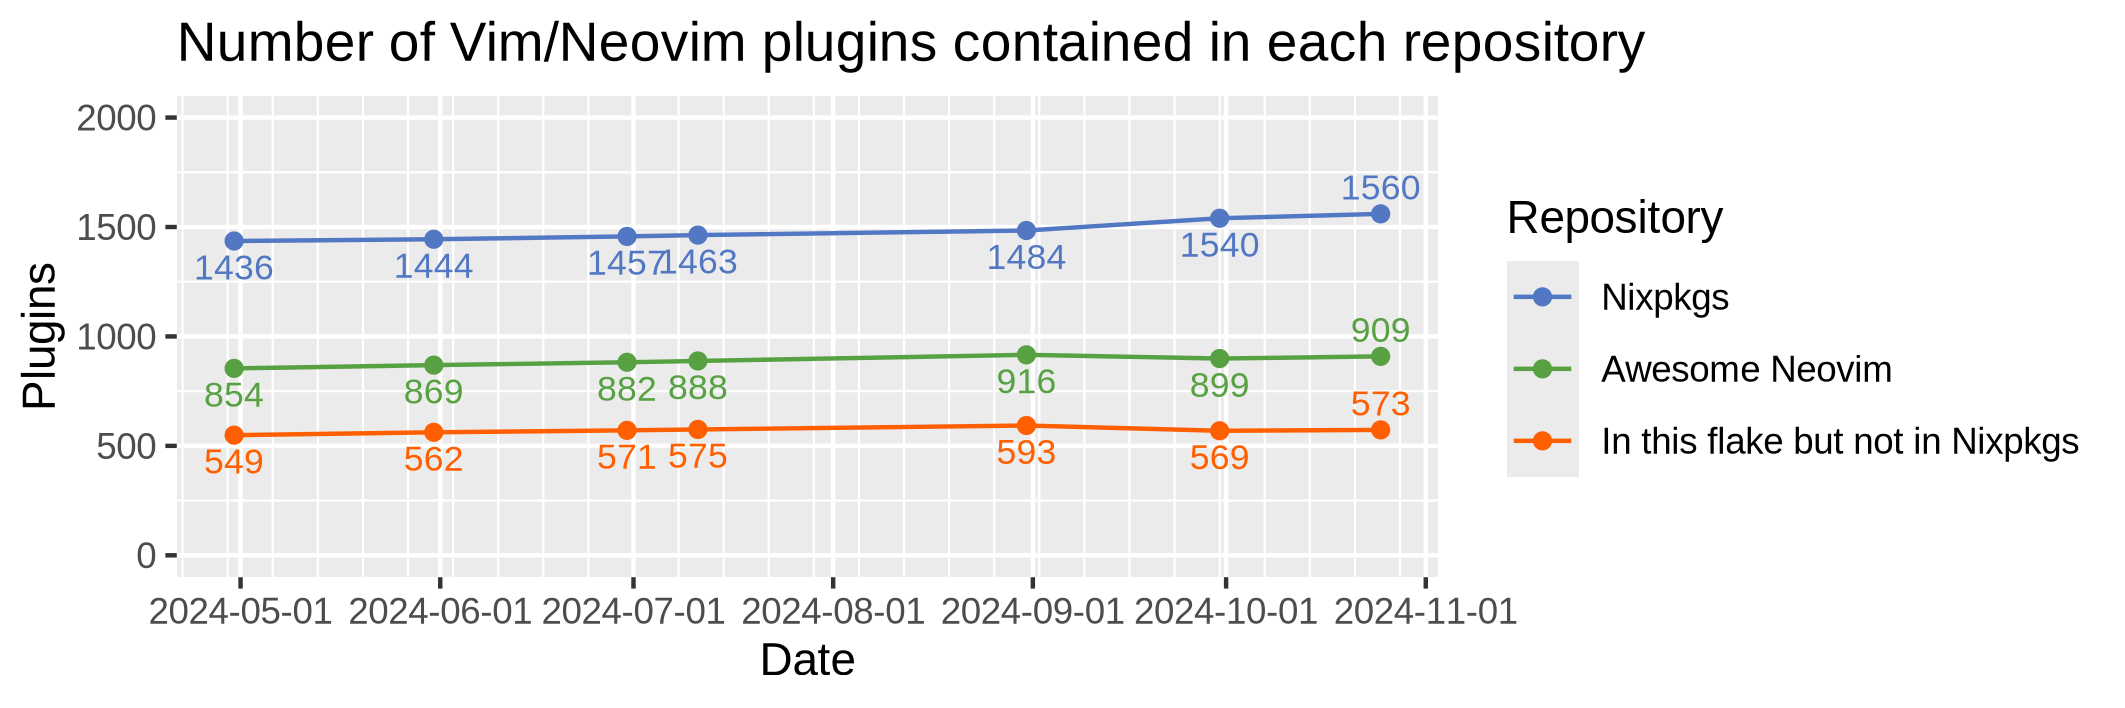
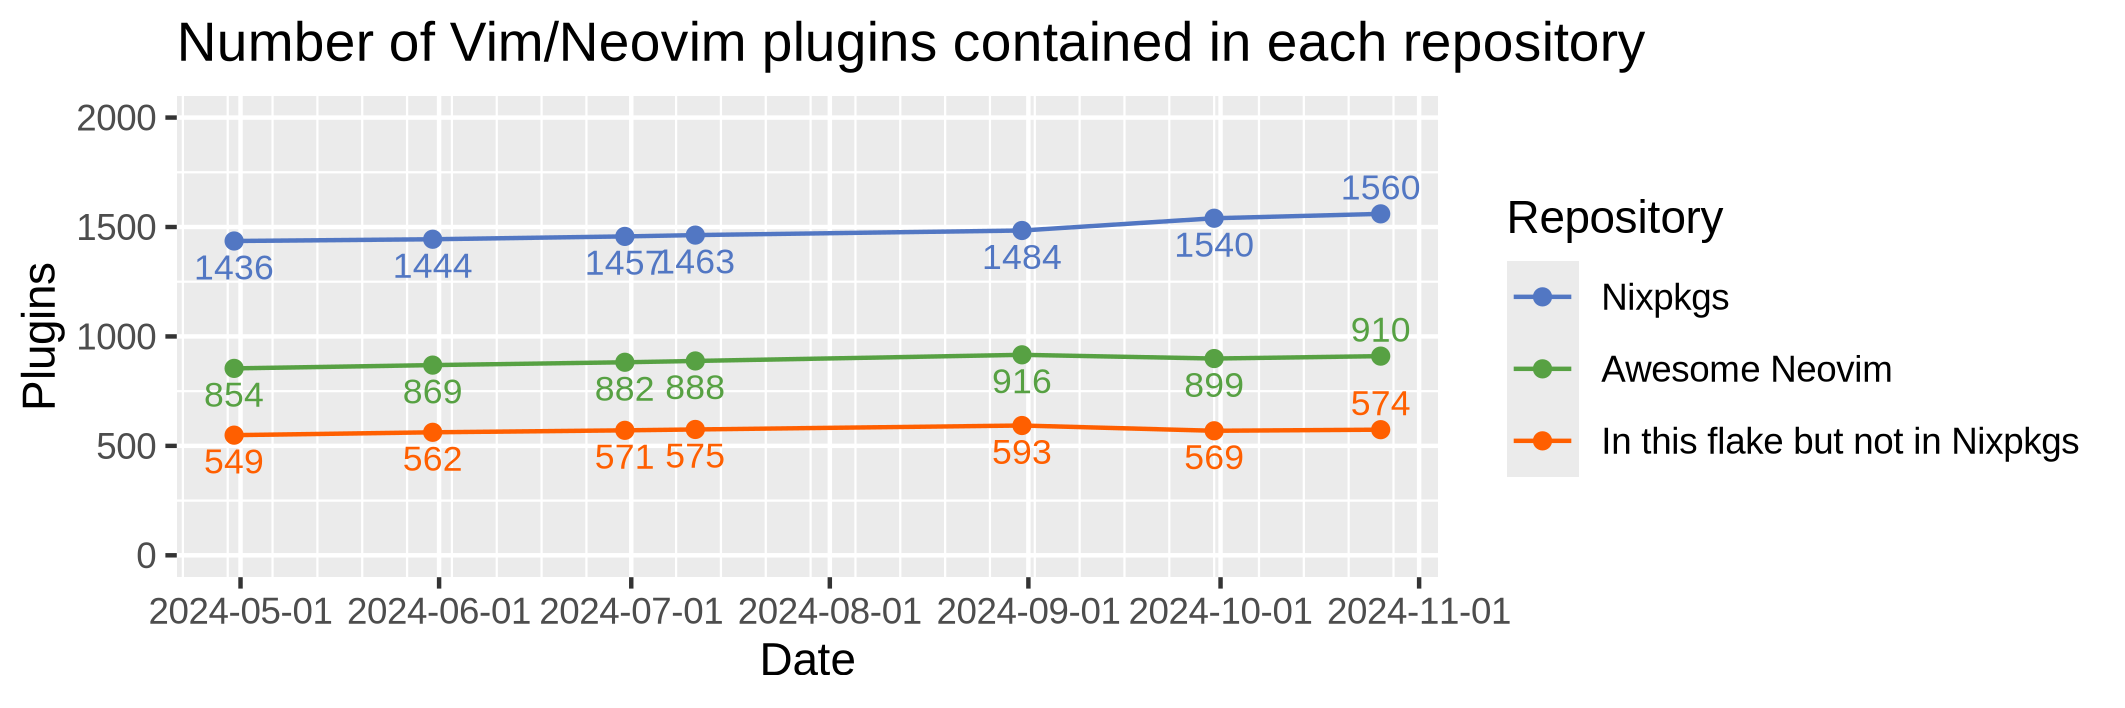
auto: update vim plugins

diff --git a/README.md b/README.md
@@ -8,7 +8,7 @@ Nix flake of Awesome Neovim plugins.
 
 [b1]: https://img.shields.io/github/actions/workflow/status/m15a/flake-awesome-neovim-plugins/check.yml?style=flat-square&logo=github&label=CI
 [b2]: https://github.com/m15a/flake-awesome-neovim-plugins/actions/workflows/check.yml
-[b3]: https://img.shields.io/badge/Awesome_Neovim_plugins-909-57A143?style=flat-square
+[b3]: https://img.shields.io/badge/Awesome_Neovim_plugins-910-57A143?style=flat-square
 [b4]: https://img.shields.io/endpoint?url=https://flakehub.com/f/m15a/flake-awesome-neovim-plugins/badge&style=flat-square
 [b5]: https://flakehub.com/flake/m15a/flake-awesome-neovim-plugins
 
